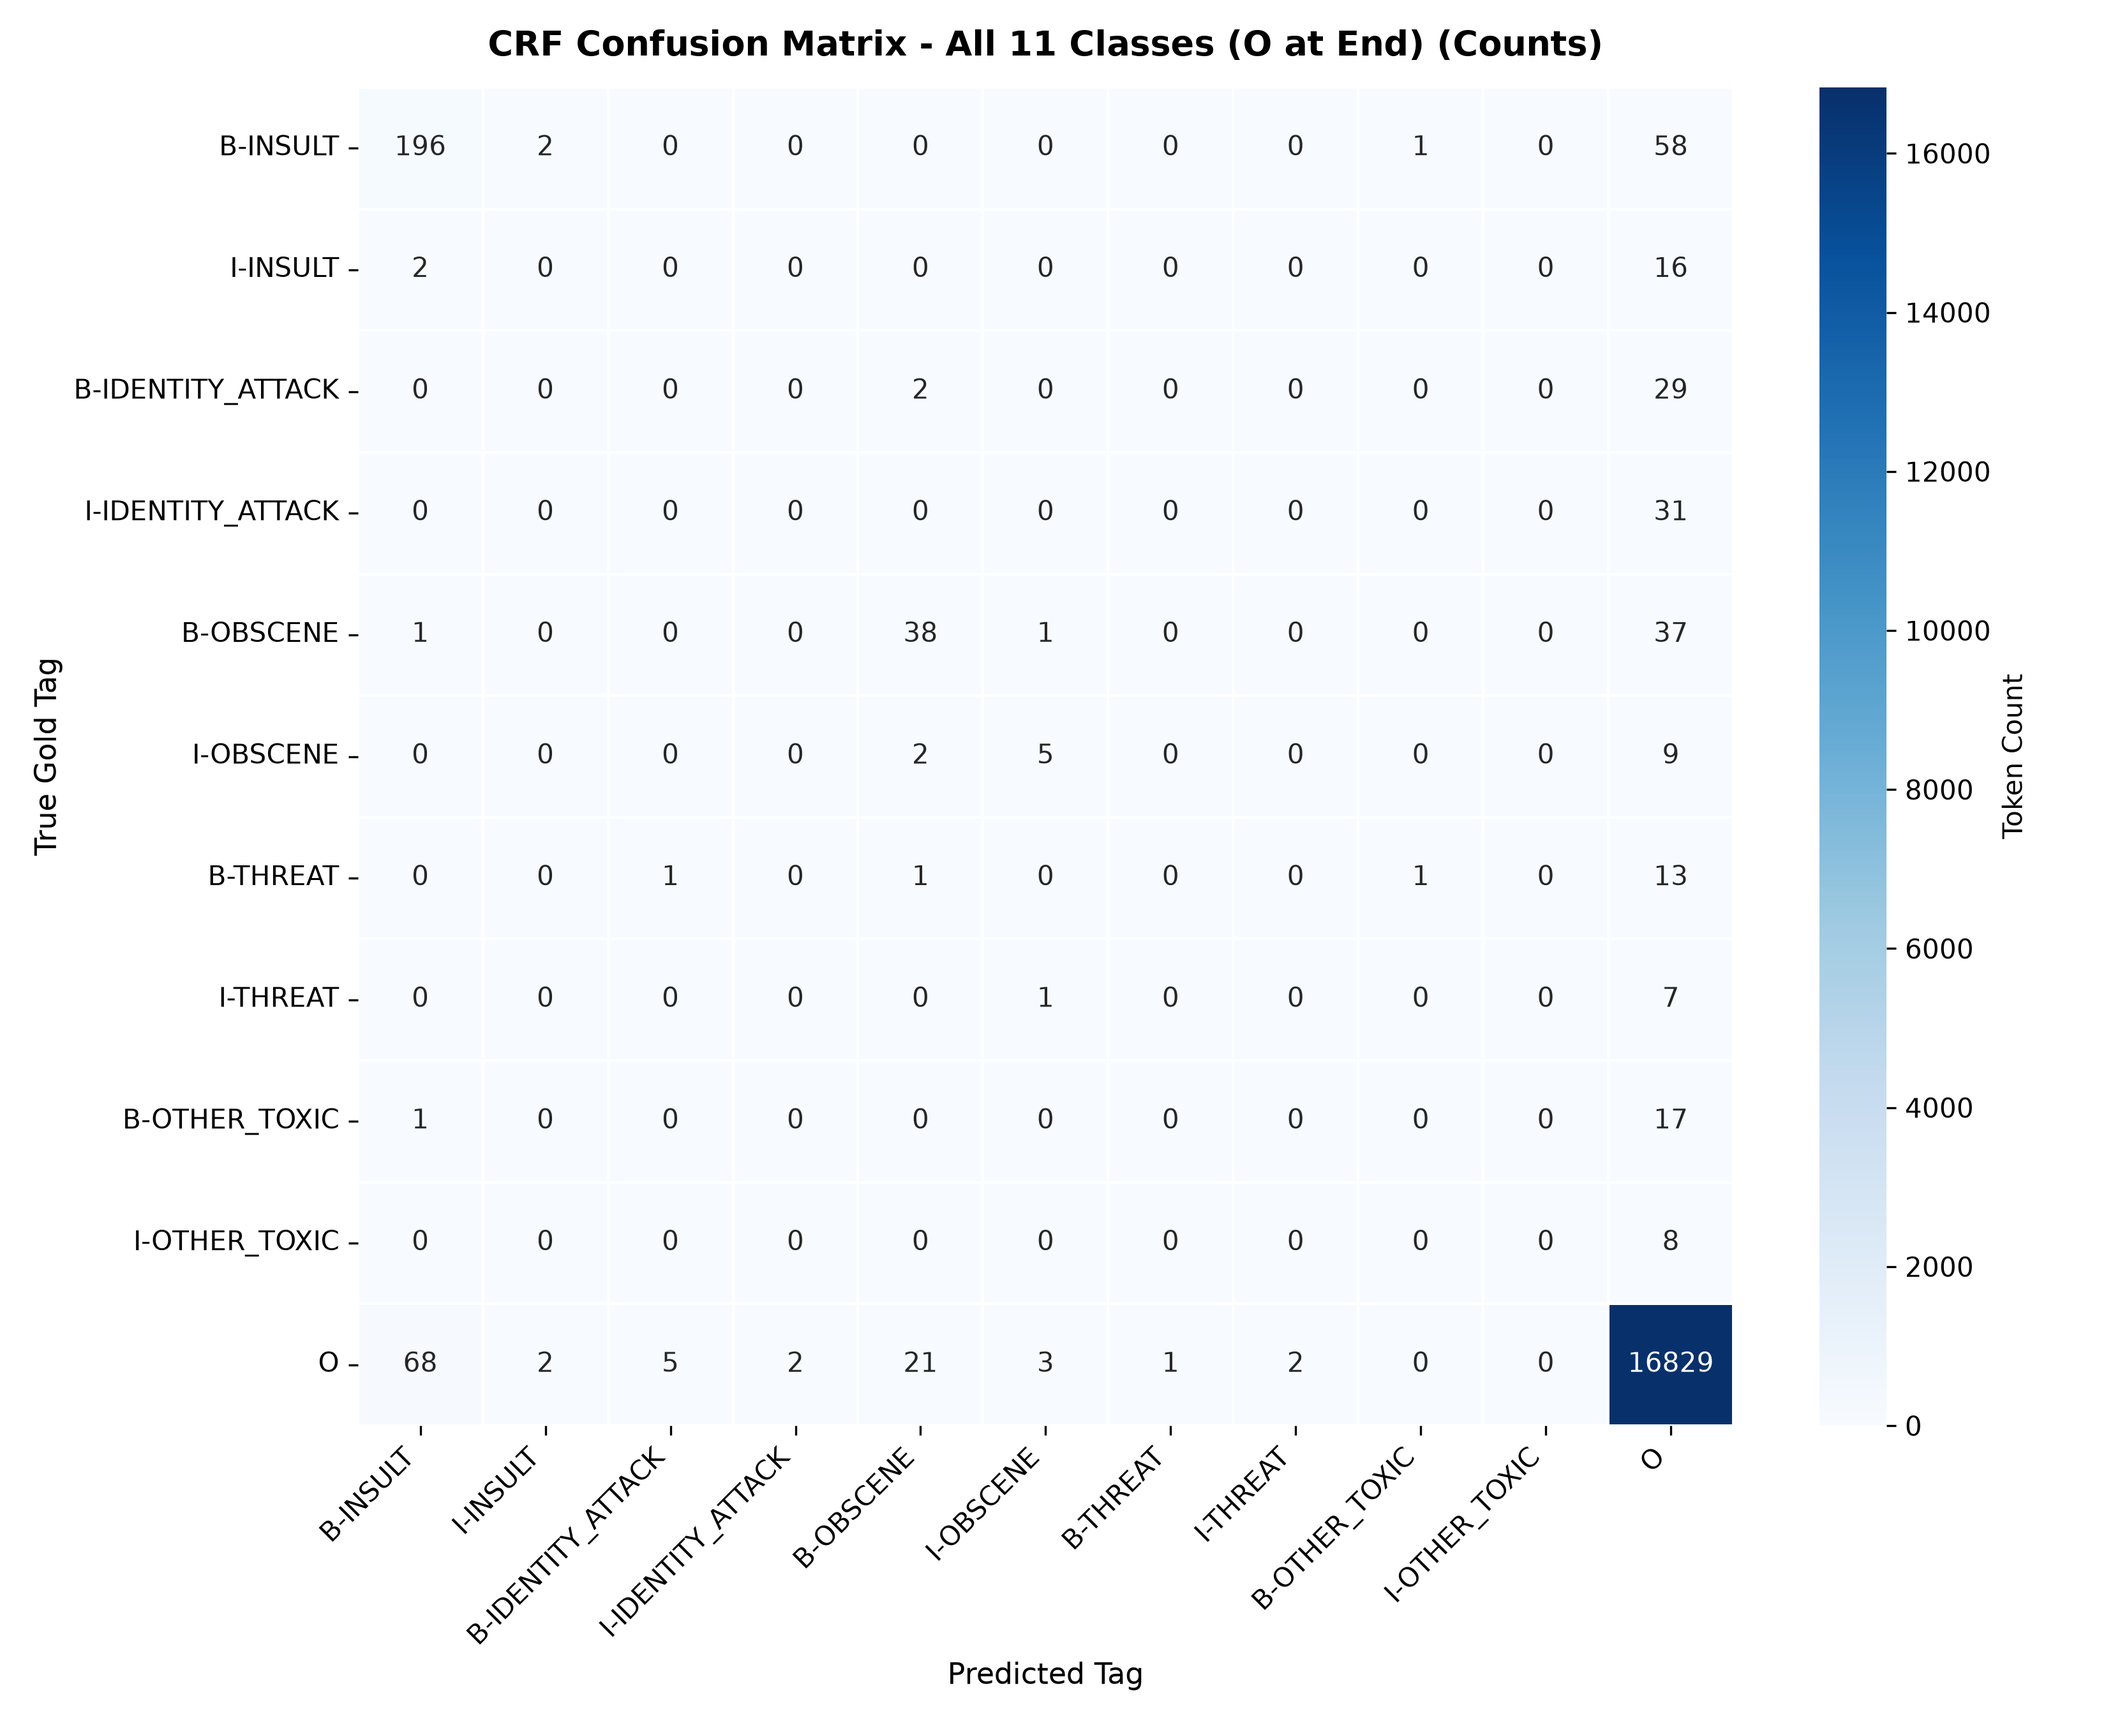
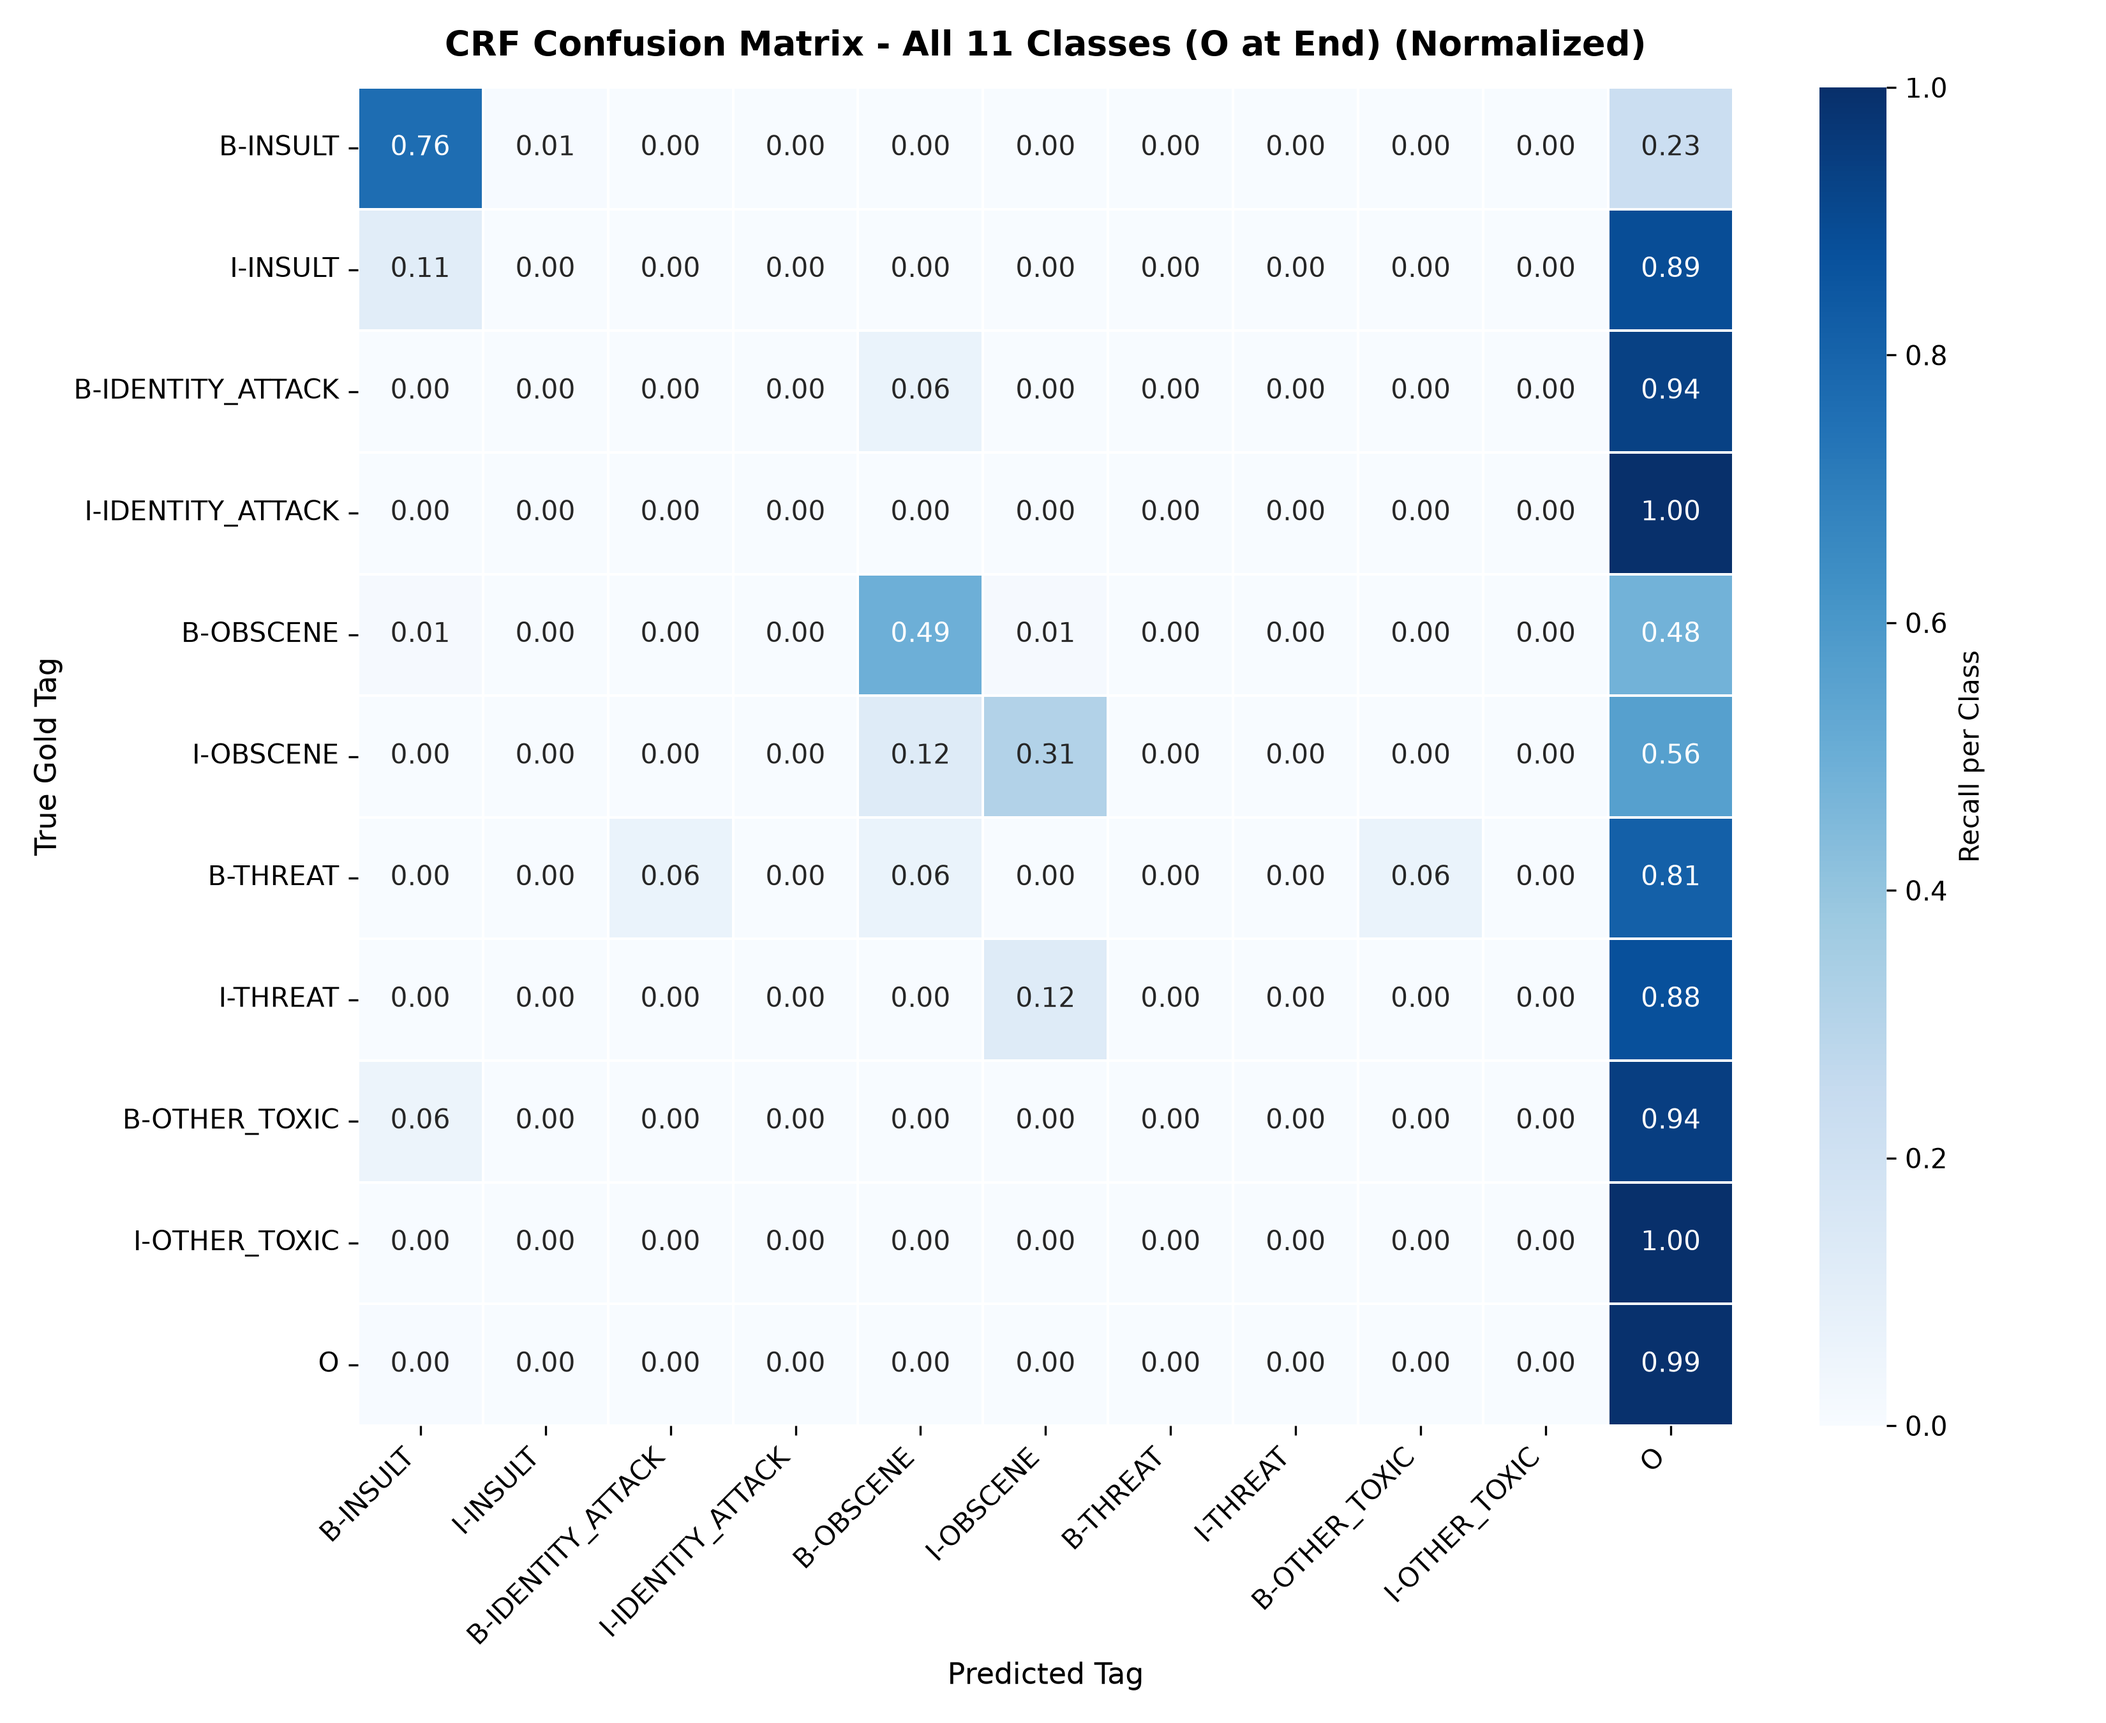
fix: revert confusion matrices to normalized decimal view and increase o_margin to 0.90

diff --git a/src/models/bilstm_crf.py b/src/models/bilstm_crf.py
@@ -210,7 +210,7 @@ class BiLSTM_CRF(nn.Module):
             
         return crf_loss
 
-    def decode(self, sentences: torch.Tensor, mask: torch.Tensor, o_margin: float = 0.65) -> List[List[str]]:
+    def decode(self, sentences: torch.Tensor, mask: torch.Tensor, o_margin: float = 0.90) -> List[List[str]]:
         """
         Viterbi decoding to extract the highest-scoring sequence of tags.
         Physically incapable of producing invalid BIO sequences due to hardcoded -10000 constraints.

diff --git a/src/utils/metrics.py b/src/utils/metrics.py
@@ -107,7 +107,7 @@ def plot_confusion_matrix(
     y_pred: List[List[str]], 
     title: str = "Token-Level Confusion Matrix",
     filename: str = "confusion_matrix.png",
-    normalize: bool = False,
+    normalize: bool = True,
     toxic_only: bool = False
 ):
     """

diff --git a/README.md b/README.md
@@ -48,10 +48,10 @@ Evaluated on 420 independent test sentences using `seqeval` (Strict Span-Level I
 
 | Model Architecture | Strict Span F1 | Precision | Recall | Token Accuracy | Training Time |
 | :--- | :---: | :---: | :---: | :---: | :---: |
-| **BiLSTM-CRF (PyTorch Deep Sequence + Continuation Prior)**| **0.6659** | 0.6275 | 0.7093 | **98.02%** | 96.54 s |
-| **Linear-Chain CRF (Feature-based)** | 0.6216 | **0.6745** | 0.5764 | **98.02%** | 9.63 s |
-| **Hidden Markov Model (HMM)** | 0.6091 | 0.5699 | 0.6541 | 97.54% | 0.07 s |
-| **Logistic Regression (Token Baseline + Class Weights)** | 0.4356 | 0.3138 | **0.7118** | 93.69% | 4.03 s |
+| **BiLSTM-CRF (PyTorch Deep Sequence + Continuation Prior)**| **0.6636** | 0.6141 | **0.7218** | 97.89% | 96.54 s |
+| **Linear-Chain CRF (Feature-based)** | 0.6216 | **0.6745** | 0.5764 | **98.02%** | 9.17 s |
+| **Hidden Markov Model (HMM)** | 0.6091 | 0.5699 | 0.6541 | 97.54% | 0.06 s |
+| **Logistic Regression (Token Baseline + Class Weights)** | 0.4356 | 0.3138 | 0.7118 | 93.69% | 8.49 s |
 
 ### Key Experimental Insights:
 - **Hardcoded CRF Structural Constraints (-10000.0 Transition Shield):** Injected an immutable masking matrix into `BiLSTM_CRF` locking impossible transitions (`O -> I-X`, `B-THREAT -> I-OBSCENE`, `<START> -> I-X`) permanently to `-10000.0`. The model's raw inference output is physically incapable of producing an invalid BIO sequence.
